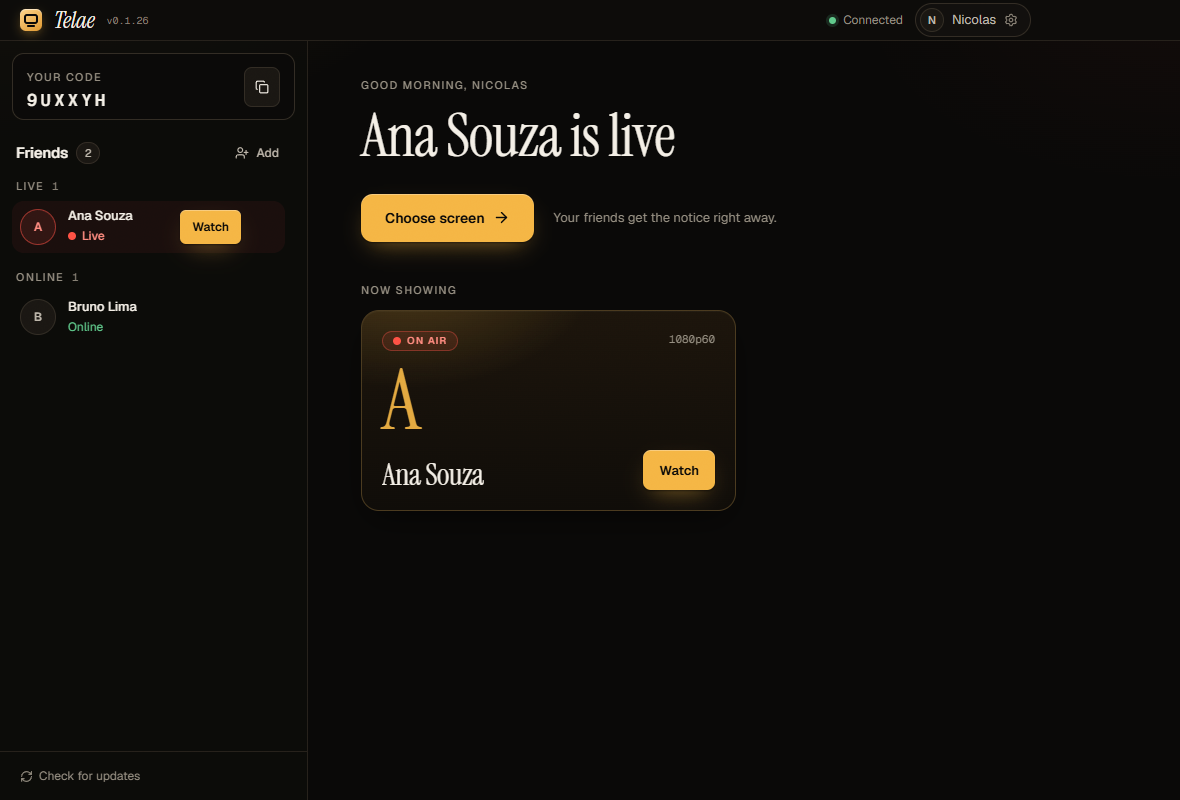
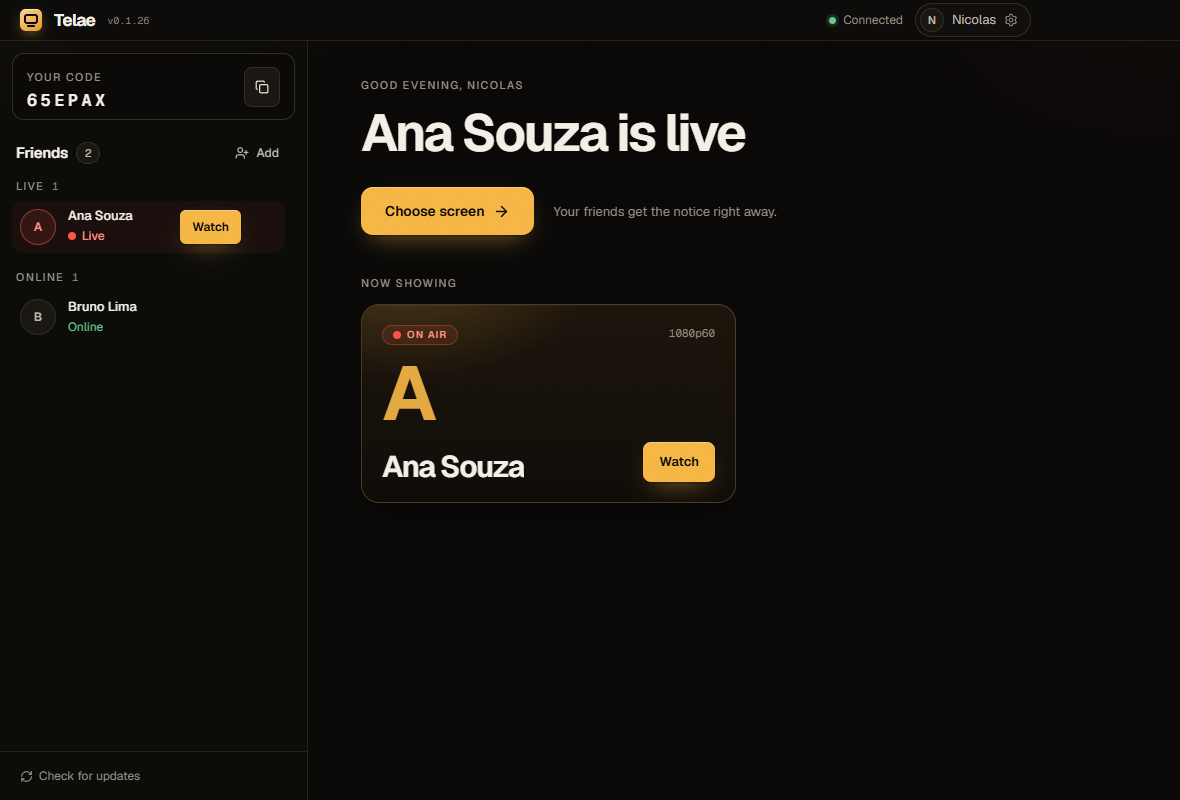
fix(desktop): use Geist for titles and wordmark instead of the serif
The serif italic did not fit the product. Titles and the wordmark now use Geist
at a strong weight with tight tracking; the title font is a single design token.

diff --git a/apps/desktop/src/components/HomeScreen.tsx b/apps/desktop/src/components/HomeScreen.tsx
@@ -72,7 +72,7 @@ export function HomeScreen({ displayName, friendsState, online, canWatch, watchi
       <div className="telae-stage">
         <div className="telae-stage-inner">
           <p className="eyebrow">{greeting(displayName?.split(' ')[0] || t('você'))}</p>
-          <h1 id="home-title" className="display mt-3 text-[clamp(40px,5vw,60px)]">{headline}</h1>
+          <h1 id="home-title" className="display mt-3 text-[clamp(36px,4.4vw,54px)]">{headline}</h1>
           {live.length === 0 && (
             <p className="mt-3 max-w-[46ch] text-[15px] leading-relaxed text-ink-2">
               {hasFriends ? t('Quando alguém transmitir, o cartaz aparece aqui.') : t('Você ainda não tem amigos por aqui. Adicione o primeiro pelo código dele.')}
@@ -98,7 +98,7 @@ export function HomeScreen({ displayName, friendsState, online, canWatch, watchi
               </>
             ) : (
               <div className="telae-darkscreen" role="img" aria-label={t('Tela apagada')}>
-                <p className="display text-[34px] italic text-ink-2">{t('Tela apagada.')}</p>
+                <p className="display text-[30px] text-ink-3">{t('Tela apagada.')}</p>
                 <p className="text-[13px] text-ink-4">{t('Nenhuma transmissão em cartaz.')}</p>
               </div>
             )}

diff --git a/apps/desktop/src/index.css b/apps/desktop/src/index.css
@@ -167,17 +167,18 @@ h2 {
 
 .telae-wordmark {
   font-family: theme('fontFamily.display');
-  font-size: 23px;
-  font-style: italic;
+  font-size: 17px;
+  font-weight: 700;
   line-height: 1;
-  letter-spacing: -0.01em;
+  letter-spacing: -0.04em;
 }
 
+/* Títulos grandes: mesma família da interface, peso forte e espaçamento justo. */
 .display {
   font-family: theme('fontFamily.display');
-  font-weight: 400;
-  letter-spacing: -0.015em;
-  line-height: 1.02;
+  font-weight: 650;
+  letter-spacing: -0.045em;
+  line-height: 1.04;
 }
 
 /* Luz vermelha do "no ar". */
@@ -280,7 +281,7 @@ h2 {
   transition: border-color 150ms ease, transform 150ms ease;
 }
 .telae-poster:hover { border-color: rgb(245 181 68 / 0.55); }
-.telae-poster-initial { font-family: theme('fontFamily.display'); font-size: 84px; line-height: 0.75; color: rgb(245 181 68 / 0.92); }
+.telae-poster-initial { font-family: theme('fontFamily.display'); font-size: 76px; font-weight: 700; letter-spacing: -0.05em; line-height: 0.8; color: rgb(245 181 68 / 0.92); }
 
 /* Tela apagada: estado vazio da home. */
 .telae-darkscreen {

diff --git a/apps/desktop/src/components/AuthScreen.tsx b/apps/desktop/src/components/AuthScreen.tsx
@@ -231,7 +231,7 @@ export function AuthScreen({ desktopApiAvailable, initialIdentifier = '', notice
     <section aria-labelledby="auth-title" className="telae-panel-enter telae-auth">
       <div className="telae-auth-brand" aria-hidden="true">
         <div className="telae-beam" />
-        <p className="display relative max-w-[12ch] text-[clamp(44px,6vw,76px)]">{t('Passa a tela pros amigos.')}</p>
+        <p className="display relative max-w-[11ch] text-[clamp(40px,5.4vw,68px)]">{t('Passa a tela pros amigos.')}</p>
         <p className="relative max-w-[38ch] text-[15px] leading-relaxed text-ink-2">{t('Imagem nítida e som junto, sem criar sala nem mandar link.')}</p>
         <div className="telae-filmstrip" />
       </div>

diff --git a/apps/desktop/src/main.tsx b/apps/desktop/src/main.tsx
@@ -2,8 +2,6 @@ import { StrictMode } from 'react'
 import { createRoot } from 'react-dom/client'
 import '@fontsource-variable/geist'
 import '@fontsource-variable/geist-mono'
-import '@fontsource/instrument-serif/400.css'
-import '@fontsource/instrument-serif/400-italic.css'
 import './index.css'
 import App from './App.tsx'
 import { resolveLocale, setLocale } from './i18n'

diff --git a/docs/DESIGN.md b/docs/DESIGN.md
@@ -6,7 +6,7 @@ O Telae é um utilitário de desktop para assistir à tela de um amigo. A imagem
 
 Uma sala de cinema pequena, só para os amigos. O app é quase preto, com tons quentes de projetor: o âmbar é a luz que sai do projetor (ações e destaques) e o vermelho é a luz de "no ar", usado apenas para quem está transmitindo. Quem está ao vivo aparece como um **cartaz** em "Em cartaz"; quando ninguém transmite, o palco mostra uma **tela apagada**.
 
-- **Marca:** a palavra *Telae* em serifa itálica ao lado de uma pequena tela com a luz do projetor (CSS em `.telae-mark`; SVG em `apps/desktop/public/icon.svg`).
+- **Marca:** a palavra *Telae* em Geist negrito, com espaçamento justo, ao lado de uma pequena tela com a luz do projetor (CSS em `.telae-mark`; SVG em `apps/desktop/public/icon.svg`).
 - **Barra de título integrada:** o Windows mantém os controles da janela (`titleBarOverlay`) e a interface desenha o cabeçalho de 40 px. Fora da conta (tela de entrada) o cabeçalho mostra só a marca.
 - **Atmosfera:** facho de luz âmbar no canto superior, filme de grão por cima de tudo (`.telae-shell::after`, 7% de opacidade) e uma tira de fotograma na tela de entrada. No player não há decoração.
 - **Composição:** a tela inicial é um trilho de amigos à esquerda (agrupados por Ao vivo, Online e Offline) e o palco à direita. A tela de entrada divide-se em painel da marca e formulário. As configurações têm navegação lateral com um painel por seção.
@@ -28,10 +28,10 @@ Definidos em `apps/desktop/tailwind.config.cjs`. Componentes usam apenas nomes s
 
 ## Tipografia
 
-- **Instrument Serif** (regular e itálico) para títulos grandes, para a marca e para o nome de quem está ao vivo. Classe `.display`.
-- **Geist** para a interface e **Geist Mono** para códigos, versão e números de telemetria.
+- **Geist** para tudo: interface, títulos grandes (classe `.display`, peso 650 e espaçamento de -0,045 em) e marca.
+- **Geist Mono** para códigos, versão e números de telemetria.
 
-As três fontes são empacotadas com o aplicativo (`@fontsource`), sem depender de rede. Numerais tabulares nas estatísticas.
+As fontes são empacotadas com o aplicativo (`@fontsource-variable`), sem depender de rede. A fonte dos títulos é um único token (`fontFamily.display` em `tailwind.config.cjs`): trocar ali muda o app inteiro. Numerais tabulares nas estatísticas.
 
 ## Componentes base
 

diff --git a/CHANGELOG.md b/CHANGELOG.md
@@ -5,7 +5,7 @@ Formato baseado em [Keep a Changelog](https://keepachangelog.com/pt-BR/1.1.0/). 
 ## [Não lançado]
 
 ### Interface
-- **Redesenho completo ("sala escura"):** paleta de projetor (âmbar para ações, vermelho para "no ar"), Instrument Serif nos títulos e na marca, grão de filme e facho de luz.
+- **Redesenho completo ("sala escura"):** paleta de projetor (âmbar para ações, vermelho para "no ar"), Geist em peso forte nos títulos e na marca, grão de filme e facho de luz.
 - **Tela inicial nova:** trilho de amigos agrupado por Ao vivo, Online e Offline, e um palco com os cartazes de quem está transmitindo ("Em cartaz") ou a "tela apagada" quando ninguém está.
 - **Entrada em duas colunas**, com painel da marca; configurações com navegação lateral por seção (Conta, Geral, Segurança, Servidor, Sobre).
 - **Textos reescritos em tom de conversa** (pt-BR e inglês), revisados com o humanizador. Erros agora dizem o que aconteceu e o que fazer.
